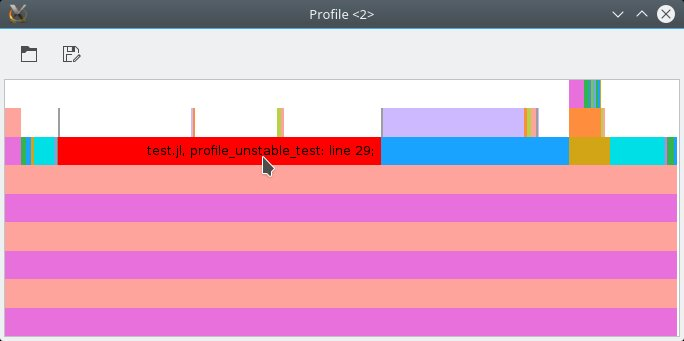
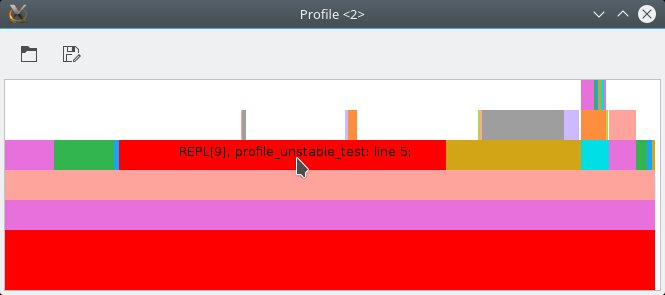
Add jl_apply_generic to list of triggers for non-inferrable calls

diff --git a/README.md b/README.md
@@ -99,7 +99,9 @@ things about this function:
   the `mapslices(sort,...)` simply because it has to process more
   data.)
 
-Now let's look at another example function:
+One thing we haven't yet discussed is the difference between the red
+bars and the more pastel-colored bars. To explore this difference,
+let's consider a different function:
 
 ```julia
 unstable(x) = x > 0.5 ? true : 0.0
@@ -123,18 +125,27 @@ ProfileView.view()
 ```
 
 The main thing to note about this function is that the function
-`unstable` is not inferrable; it can return either a `Bool` or a
-`Float64` depending on the *value* (not type) of `x`.  When we
-visualize the profiling results for this function, we see something
-like the following:
+`unstable` does not have inferrable return type (a.k.a., it is
+type-unstable); it can return either a `Bool` or a `Float64` depending
+on the *value* (not type) of `x`.  When we visualize the profiling
+results for this function, we see something like the following:
 
 ![ProfileView](readme_images/pv2.jpg)
 
 In this plot, red is a special color: it is reserved for function
-calls that are deduced to be non-inferrable (here by executing the C
-function `jl_invoke`). Because type-instability often has a
-significant impact on performance, we highlight the problematic call
-in red.
+calls that are deduced to be non-inferrable (by virtue of their
+execution of the C functions `jl_invoke` or
+`jl_apply_generic`). Because type-instability often has a significant
+impact on performance, we highlight the problematic call in red. It's
+worth noting that some red is unavoidable; for example, the REPL can't
+predict in advance the return types from what users type at the
+prompt. Red bars are problematic only when they account for a sizable
+fraction of the top "row," as only in such cases are they likely to be
+the source of a significant performance bottleneck. In our first
+example, we can see that `mapslices` is (internally) non-inferrable;
+from the absence of pastel-colored bars above much of the red, we
+might guess that this type-instability makes a substantial
+contribution to its total run time.
 
 ## GUI features
 
